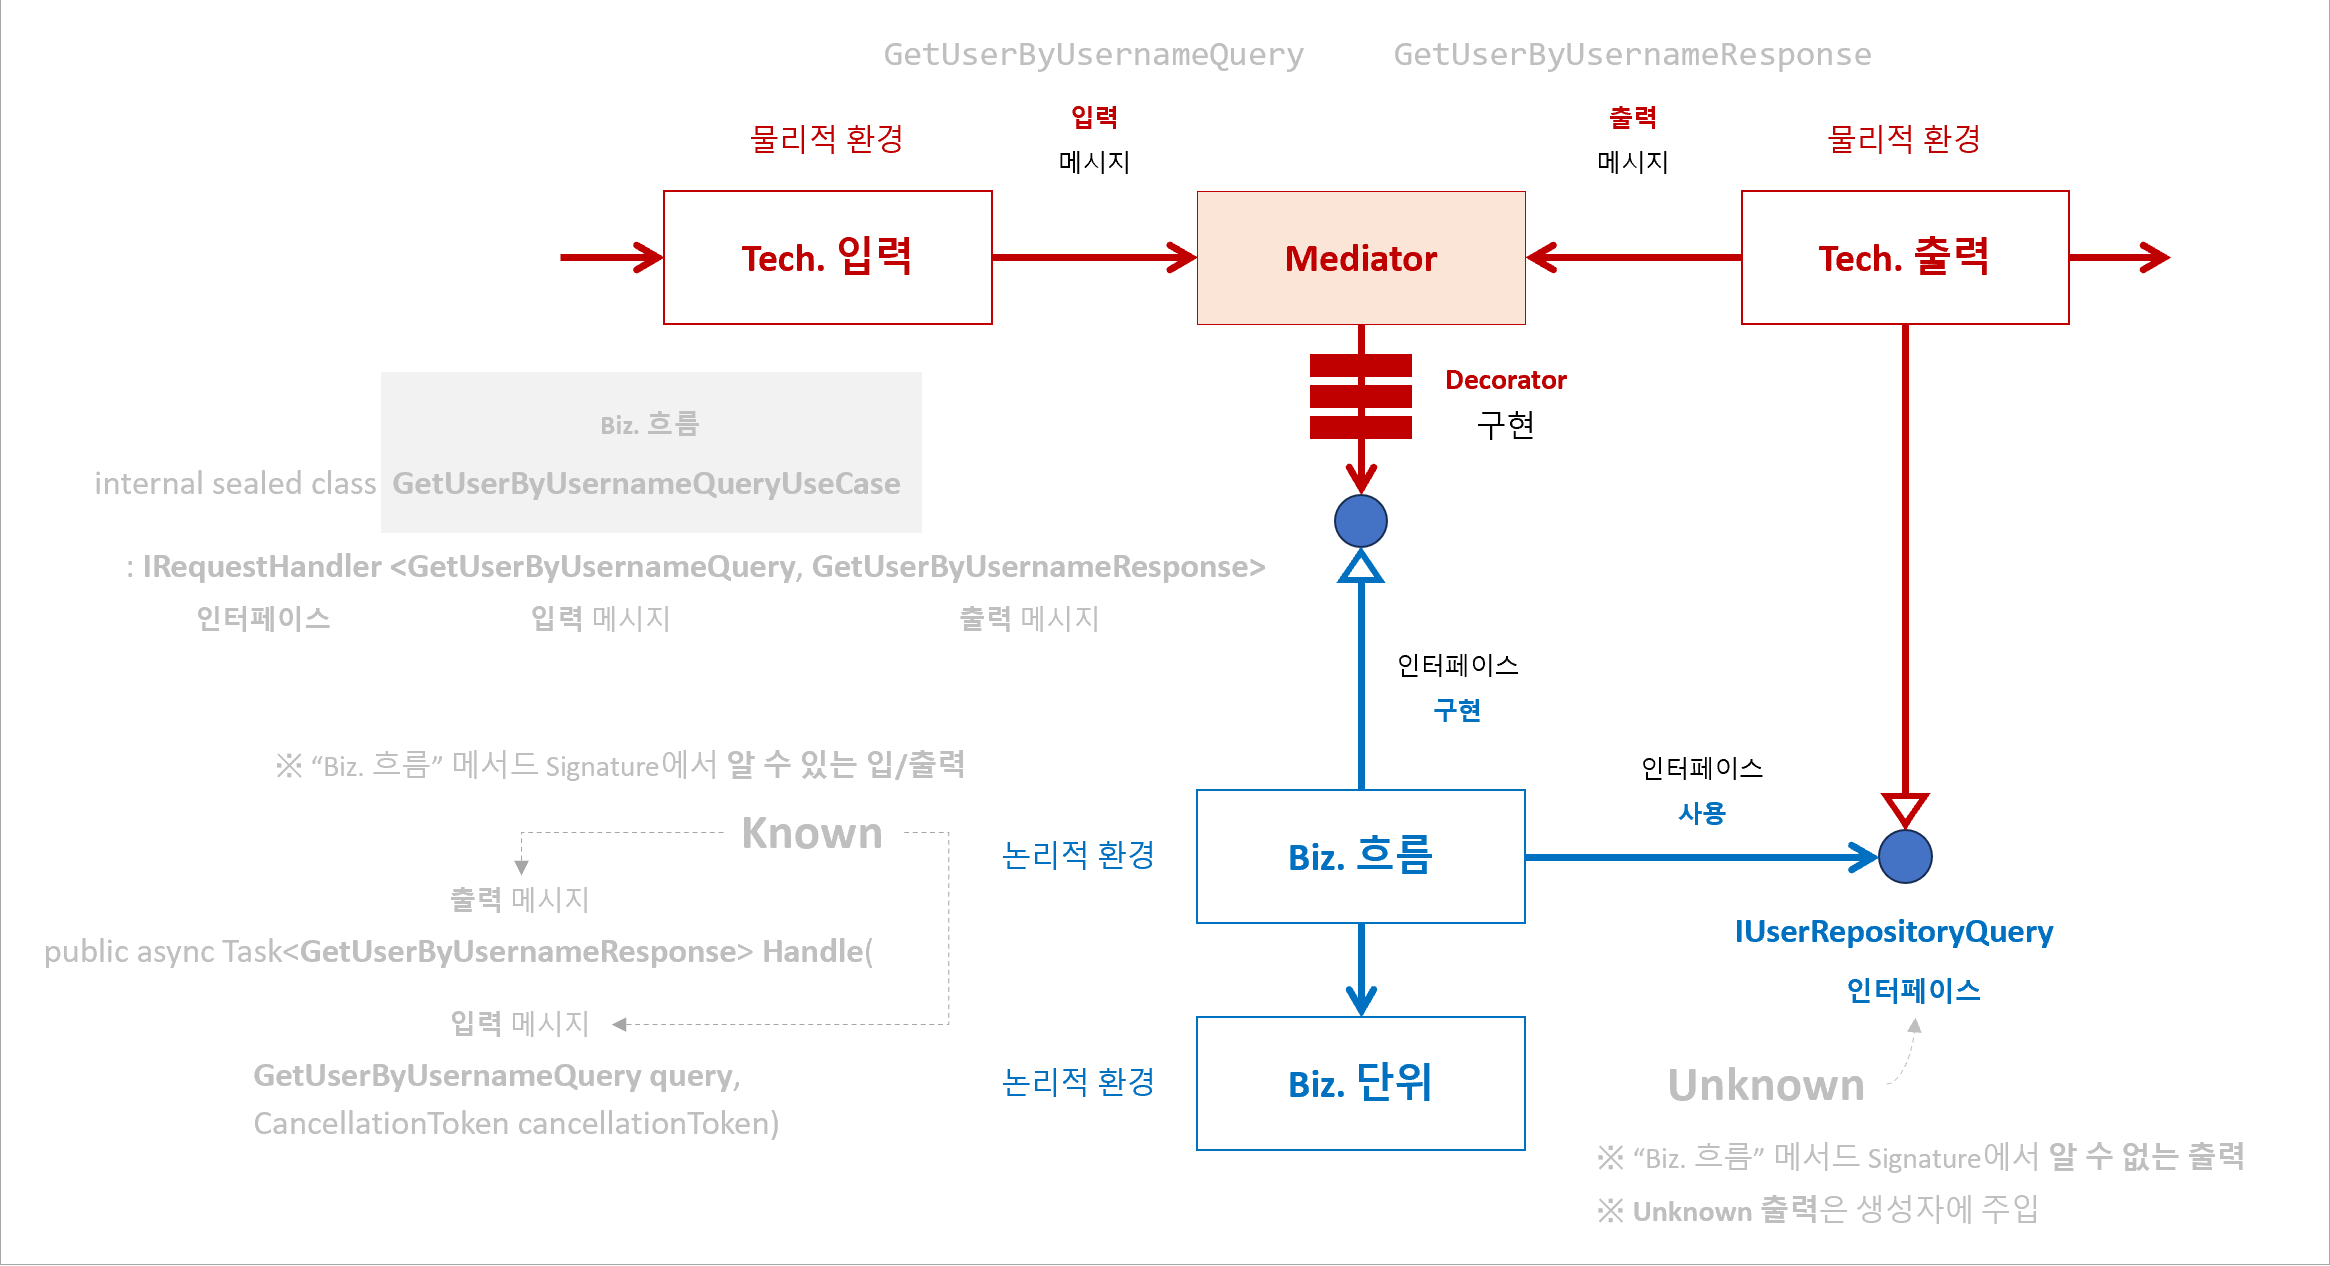
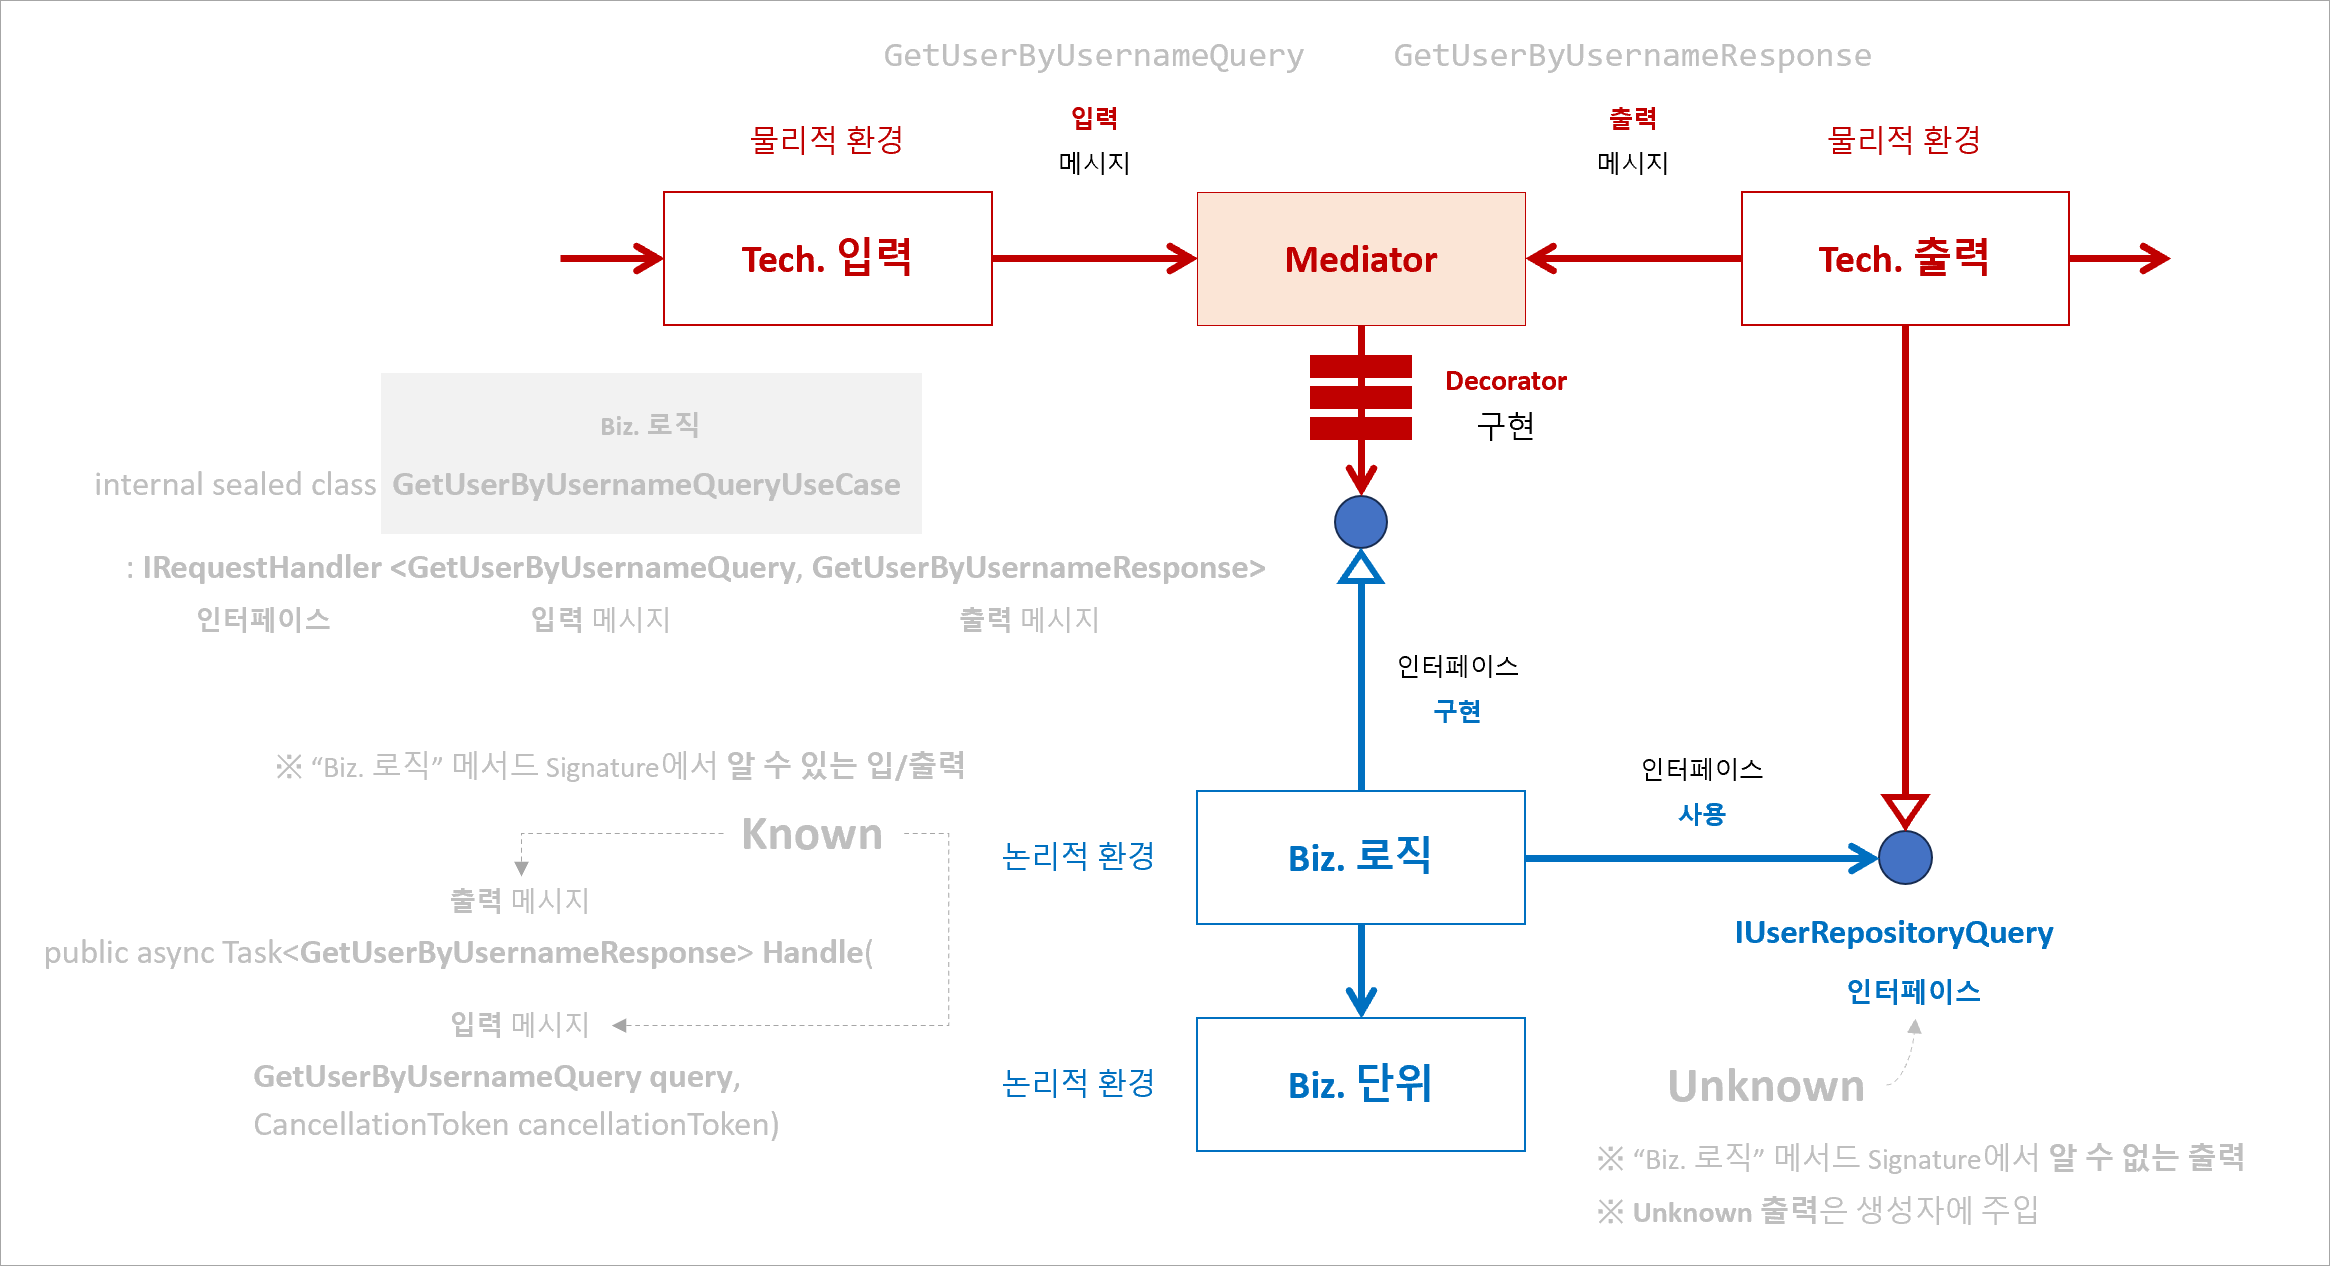
docs: biz. 로직 이미지

diff --git a/README.md b/README.md
@@ -199,7 +199,7 @@ Application Architecture
 > - Tech. 관심사: Non-deterministic
 >   - Tech. 입/출력: Adapter 레이어(사용자 인터페이이스, 데이터 저장소, ...)
 > - Biz. 관심사: Deterministic
->   - Biz. 흐름: Application 레이어
+>   - Biz. 로직: Application 레이어
 >   - Biz. 단위: Domain 레이어
 
 - 레이어 이름 규칙
@@ -218,14 +218,15 @@ Application Architecture
   {프로젝트}.Adapters.Persistence       // Tech. 관심사, Non-deterministic
   {프로젝트}.Adapters.Presentation      // Tech. 관심사, Non-deterministic
 
-  {프로젝트}.Application                // Biz. 관심사(Biz. 흐름), Deterministic
+  {프로젝트}.Application                // Biz. 관심사(Biz. 로직), Deterministic
   {프로젝트}.Domain                     // Biz. 관심사(Biz. 단위), Deterministic
   ```
 
 ## 불순(Impure)
 ### 비즈니스 입/출력
 ![](./.images/BizLayer.png)
-- Biz. 관심사(Biz. 흐름과 Biz. 단위)는 비결정론적(Non-deterministic) Tech 관심사(Tech. 출력)에 의존하기 때문에 결정론적(Deterministic) 성질을 잃게 됩니다.
+
+- Biz. 관심사(Biz. 로직과 Biz. 단위)는 비결정론적(Non-deterministic) Tech 관심사(Tech. 출력)에 의존하기 때문에 결정론적(Deterministic) 성질을 잃게 됩니다.
   - **결정론적(Deterministic)**: 예측 가능
     - 정확한 수학적 관계식에 의해 예측
     - 오차(불확실성)를 허용하지 않음
